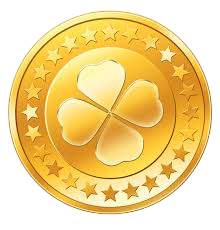
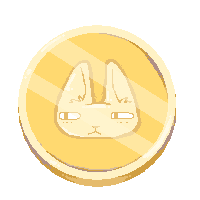
feat: centralize pet logic and improve leaderboard, infra and UI stability
feat(pet): centralize level calculation and improve leaderboard logic

- Export calculateLevel from pet service for unified level computation
- Remove setPetLevel usage from admin logic
- Leaderboard now derives player level via calculateLevel instead of stored value
- Add safe handling for missing users in ranking queries

chore(infra): add DB backups and improve docker-compose stability

- Add SQL backup dump for database restore
- Pin Postgres image to version 16 for consistency across environments
- Harden backup service command:
  - explicitly export PGPASSWORD
  - improve quoting for CLI safety
  - ensure proper cleanup after dump execution

feat(frontend): UI cleanup and leaderboard improvements

- Remove Telegram ID from schedule form and profile flow
- Update leaderboard to reload data on user change
- Add fallback rank calculation for edge cases
- Replace coin icon asset for updated UI consistency
- Minor form style adjustments

fix(game): add safety check for play action

- Prevent play action when pet fullness is zero to avoid invalid state transitions

diff --git a/frontend/src/components/leaderboard/Leaderboard.jsx b/frontend/src/components/leaderboard/Leaderboard.jsx
@@ -13,7 +13,7 @@ export default function Leaderboard() {
 
   useEffect(() => {
     loadLeaderboard();
-  }, []);
+  }, [user?.id]);
 
   async function loadLeaderboard() {
     try {
@@ -27,7 +27,15 @@ export default function Leaderboard() {
     }
   }
 
+  function getEffectiveRank() {
+    if (userRank !== null && userRank !== undefined) return userRank;
+    if (!players.length || !user) return null;
+    const idx = players.findIndex(p => p.id === user.id);
+    return idx !== -1 ? idx + 1 : null;
+  }
+
   function getRank(rank) {
+    if (rank === null || rank === undefined) return '#';
     if (rank === 1) return <span className={styles.gold}>{rank}</span>;
     if (rank === 2) return <span className={styles.silver}>{rank}</span>;
     if (rank === 3) return <span className={styles.bronze}>{rank}</span>;
@@ -95,7 +103,7 @@ export default function Leaderboard() {
 
           <div className={styles.currentContent}>
             <div className={styles.currentRank}>
-               {getRank(userRank)}
+               {getRank(getEffectiveRank())}  
             </div>
 
             <div className={styles.currentName}>

diff --git a/backend/src/modules/leaderboard/leaderboard.repository.js b/backend/src/modules/leaderboard/leaderboard.repository.js
@@ -1,4 +1,5 @@
 import {pool} from "../../infrastructure/db.js";
+import {calculateLevel} from "#pet";
 
 export async function getTopPlayers() {
 
@@ -22,18 +23,21 @@ export async function getTopPlayers() {
     `;
 
     const result = await pool.query(query);
-
-    return result.rows;
+    const players = result.rows.map(player => ({
+        ...player,
+        level: calculateLevel(player.xp || 0)
+    }));
+    return players;
 }
 
 export async function getUserRank(userId) {
 
     const query = `
-        SELECT COUNT(*) + 1 AS rank
-        FROM pets
-        WHERE xp > (
-            SELECT xp FROM pets WHERE user_id = $1
-        )
+        SELECT CASE
+            WHEN EXISTS (SELECT 1 FROM pets WHERE user_id = $1) THEN
+                (SELECT COUNT(*) + 1 FROM pets WHERE xp > (SELECT xp FROM pets WHERE user_id = $1))
+            ELSE NULL
+        END AS rank;
     `;
 
     const result = await pool.query(query, [userId]);

diff --git a/frontend/src/components/sidebar/SidebarButtons.jsx b/frontend/src/components/sidebar/SidebarButtons.jsx
@@ -1,5 +1,6 @@
 import { useAuth } from "../../context/AuthContext";
 import styles from "./SidebarButtons.module.css";
+import { Link } from "react-router-dom";
 
 const buttons = [
   { key: "achievements", label: "Достижения", icon: "/assets/sidebar/achievements-icon.png" },
@@ -10,6 +11,18 @@ export default function SidebarButtons({ onClick }) {
   return (
     <div className={styles.sidebar}>
       <div className={styles.stack}>
+
+        {/* <Link to="/play">
+          <button
+            className={styles.scrollButton}
+          >
+            <img src="/assets/sidebar/achievements-icon.png" alt="Игры" />
+            <span className={styles.label}>
+              Игры
+            </span>
+          </button>
+        </Link> */}
+
         {buttons.map((btn) => (
           <button
             key={btn.key}

diff --git a/backend/src/modules/pet/pet.service.js b/backend/src/modules/pet/pet.service.js
@@ -45,7 +45,7 @@ const calculateEnergyRecovery = (lastDate, nowDate) => {
   return total;
 };
 
-const calculateLevel = (xp) => {
+export const calculateLevel = (xp) => {
   let level = 1;
   let totalXp = 0;
 
@@ -167,7 +167,10 @@ const applyActionLogic = (pet, action) => {
     coinsDelta = -cost;
   }
 
-  if (energyDelta < 0 && base.energy + energyDelta < 0) throw new Error("Недостаточно энергии!");
+  if (action === "PLAY") {
+    if (base.fullness == 0) throw new Error("Питомец слишком голоден для игр!");
+    if (energyDelta < 0 && base.energy + energyDelta < 0) throw new Error("Недостаточно энергии!");
+  }
 
   const result = { ...base };
   result.fullness = clampStat("fullness", base.fullness + fullnessDelta);

diff --git a/frontend/src/pages/PetPage.jsx b/frontend/src/pages/PetPage.jsx
@@ -57,8 +57,6 @@ import "../components/pet/Pet.css";
         
         await api.post('/schedule/update', {calendar_url});
 
-        await api.post('/profile/telegram', {tg_id});
-
         await fetchSchedule();
 
         handleCloseModal();
@@ -119,7 +117,7 @@ import "../components/pet/Pet.css";
             {/* Обычные модалки */}
             {openModal && (
               <Modal onClose={handleCloseModal}>
-                {openModal === "profile" && <Profile />}
+                {/* {openModal === "profile" && <Profile />} */}
                 {openModal === "achievements" && <Achievements />}
                 {openModal === "leaderboard" && <Leaderboard />}
               </Modal>

diff --git a/frontend/src/components/forms/ScheduleForm.jsx b/frontend/src/components/forms/ScheduleForm.jsx
@@ -21,9 +21,6 @@ export default function ScheduleForm({state, setState, handleSubmit, handleClose
                     <Input name = 'calendar_url' label= 'Ссылка на расписание ЕТИС' type='text' state={state} setState={setState}/>
                     {errors.calendar_url && <Error message={errors.calendar_url} />}
 
-                    <Input name = 'tg_id' label= 'Ваш Telegram ID' type='text' state={state} setState={setState}/>
-                    {errors.tg_id && <Error message={errors.tg_id} />}
-
                     <Button type="submit" variant='base'>Отправить</Button>
                 </form> 
             </div>

diff --git a/backend/src/modules/admin/admin.repository.js b/backend/src/modules/admin/admin.repository.js
@@ -55,22 +55,4 @@ const setPetXp = async (userId, xp) => {
     return res.rows[0] || null;
 };
 
-const setPetLevel = async (userId, level) => {
-    const res = await pool.query(
-        `
-        UPDATE pets
-        SET level = $1
-        WHERE user_id = $2
-
-        RETURNING
-            user_id,
-            xp,
-            level
-        `,
-        [level, userId]
-    );
-
-    return res.rows[0] || null;
-};
-
-export {getAllUsers, toggleUserRole, deleteUser, setPetXp, setPetLevel};
+export {getAllUsers, toggleUserRole, deleteUser, setPetXp};

diff --git a/frontend/src/components/forms/Forms.module.css b/frontend/src/components/forms/Forms.module.css
@@ -3,7 +3,7 @@
   background: rgba(42, 42, 90, 0.92);
   backdrop-filter: blur(10px);
   -webkit-backdrop-filter: blur(10px);
-  padding: clamp(12px, 3.5vw, 20px);
+  padding: clamp(12px, 3.5vw, 60px);
   border: 1.5px solid #ffffd4;
   box-shadow: 0 6px 16px rgba(0,0,0,0.5);
   width: 100%;
@@ -16,7 +16,7 @@
 
 /* заголовок (ВХОД / РЕГИСТРАЦИЯ) */
 .sectionHeader {
-  width: 80%;
+  width: 100%;
   background: #6363c4;
   padding: clamp(4px, 1.5vw, 6px) clamp(10px, 3vw, 14px);
   margin-bottom: clamp(14px, 4vw, 20px);

diff --git a/frontend/src/routesConfig.jsx b/frontend/src/routesConfig.jsx
@@ -6,6 +6,7 @@ import AuthPage from './pages/AuthPage.jsx';
 export const routes = [
   { path: '/', element: <WelcomePage />, protected: false },
   { path: '/schedule', element: <PetPage />, protected: true },
+  // { path: '/play', element: <PlayPage />, protected: true },
   { path: '/pet', element: <PetPage />, protected: true },
   { path: '/profile', element: <Profile />, protected: true },
   { path: '/auth/login', element: <AuthPage type="login" />, protected: false },

diff --git a/backend/src/modules/admin/admin.service.js b/backend/src/modules/admin/admin.service.js
@@ -124,11 +124,6 @@ async function createTestUsers(count = 20) {
                 randomXp
             );
 
-            await adminRepository.setPetLevel(
-                user.id,
-                randomLevel
-            );
-
             users.push(user);
 
         } catch (err) {

diff --git a/frontend/src/schemas/schedule.schemas.js b/frontend/src/schemas/schedule.schemas.js
@@ -2,7 +2,6 @@ import { z } from "zod"
 
 const calendarUrlSchema = z.object({
   calendar_url: z.string().url("Неверный URL календаря"),
-  tg_id: z.coerce.number("Неверный telegram id"),
 }).strip();
 
 export { calendarUrlSchema };
